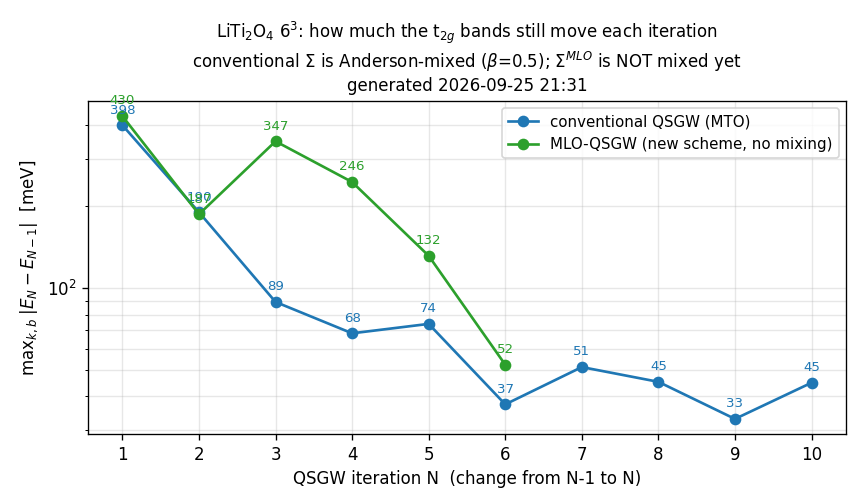
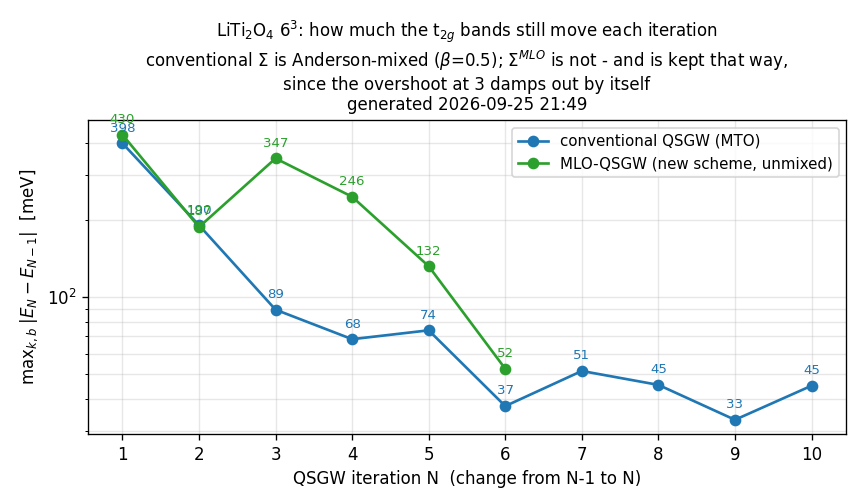
temp.md 7.4: record the mixing asymmetry and the decision not to use it
The asymmetry is real and worth writing down -- lmf reads SigRsMLO, not sigm, so
the MLO chain was running at beta=1 while the conventional one ran at mixbeta=0.5,
and every comparison before iteration 6 was damped against undamped.  But the
unmixed chain reaches the same level by iteration 6 on its own, so the damping is
not what convergence needs.  Mixing stays implemented and off.

Also notes the InstallAll.py --gemmul8 breakage: upstream GEMMul8 no longer has the
inner GEMMul8/ directory the installer cd's into, so the whole install aborts with
FileNotFoundError.  The flag does not touch cmake_options, so dropping it leaves
libecaljF*.so identical.

diff --git a/Samples/kBT/LiTi2O4/mlo_conv.py b/Samples/kBT/LiTi2O4/mlo_conv.py
@@ -19,7 +19,7 @@ def chain(d):
     return o
 R=chain('ref'); M=chain('v6')
 fig,ax=plt.subplots(figsize=(7.2,4.2))
-for lab,C,col in [('conventional QSGW (MTO)',R,'tab:blue'),('MLO-QSGW (new scheme, no mixing)',M,'tab:green')]:
+for lab,C,col in [('conventional QSGW (MTO)',R,'tab:blue'),('MLO-QSGW (new scheme, unmixed)',M,'tab:green')]:
     ks=sorted(C); xs=[];ys=[]
     for a,b in zip(ks,ks[1:]):
         if b!=a+1: continue
@@ -29,7 +29,8 @@ for lab,C,col in [('conventional QSGW (MTO)',R,'tab:blue'),('MLO-QSGW (new schem
 ax.set_yscale('log'); ax.set_xlabel('QSGW iteration N  (change from N-1 to N)')
 ax.set_ylabel(r'max$_{k,b}\;|E_N-E_{N-1}|$  [meV]')
 ax.set_title('LiTi$_2$O$_4$ 6$^3$: how much the t$_{2g}$ bands still move each iteration\n'
-             'conventional $\\Sigma$ is Anderson-mixed ($\\beta$=0.5); $\\Sigma^{MLO}$ is NOT mixed yet\n'
+             'conventional $\\Sigma$ is Anderson-mixed ($\\beta$=0.5); $\\Sigma^{MLO}$ is not - and is kept that way,\n'
+             'since the overshoot at 3 damps out by itself\n'
              f'generated {datetime.datetime.now():%Y-%m-%d %H:%M}',fontsize=10)
 ax.grid(alpha=.3,which='both'); ax.legend(fontsize=9); ax.set_xticks(range(1,11))
 plt.tight_layout(); plt.savefig('/home/takao/ecalj/Samples/kBT/LiTi2O4/mlo_conv.png',dpi=120)
